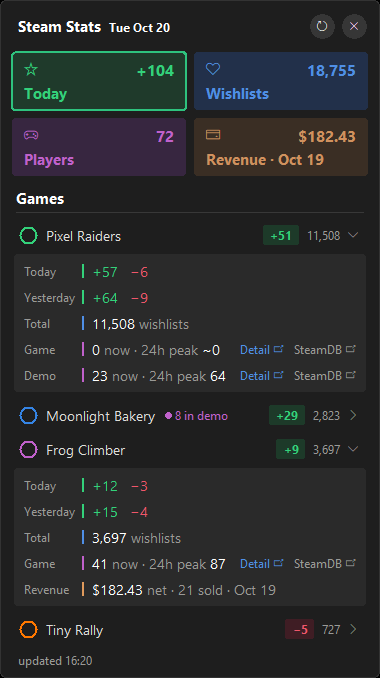
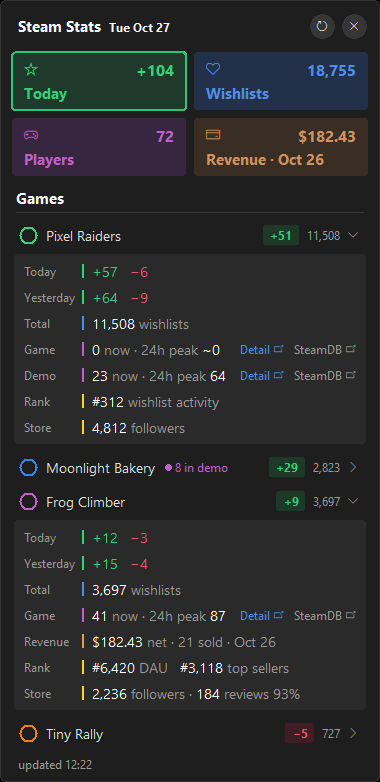
Ranking, followers, rating added

diff --git a/steam_widget.py b/steam_widget.py
@@ -2,6 +2,7 @@ import ctypes
 import datetime as dt
 import json
 import os
+import re
 import sys
 import threading
 import time
@@ -23,6 +24,7 @@ PLAYERS_PATH = os.path.join(DATA_DIR, "players_history.json")
 SALES_PATH = os.path.join(DATA_DIR, "sales.json")
 LOG_PATH = os.path.join(DATA_DIR, "error.log")
 APPS_PATH = os.path.join(DATA_DIR, "apps.json")
+STORE_STATS_PATH = os.path.join(DATA_DIR, "store.json")
 
 FIN_BASE = "https://partner.steam-api.com/IPartnerFinancialsService/"
 WISHLIST_URL = FIN_BASE + "GetAppWishlistReporting/v001/"
@@ -34,12 +36,23 @@ APPLIST_URL = "https://partner.steam-api.com/ISteamApps/GetPartnerAppListForWebA
 STORE_URL = "https://store.steampowered.com/api/appdetails"
 STEAMDB_URL = "https://steamdb.info/app/{appid}/charts/"
 DETAILS_URL = "https://partner.steampowered.com/app/details/{appid}/?dateStart=2000-01-01&dateEnd={date}"
+STORE_QUERY_URL = "https://api.steampowered.com/IStoreQueryService/Query/v1/"
+STORE_ITEMS_URL = "https://api.steampowered.com/IStoreBrowseService/GetItems/v1/"
+FOLLOWERS_URL = "https://steamcommunity.com/games/{appid}/memberslistxml/"
+BROWSER_UA = ("Mozilla/5.0 (Windows NT 10.0; Win64; x64) AppleWebKit/537.36 "
+              "(KHTML, like Gecko) Chrome/155.0 Safari/537.36")
 
 DISCOVER_INTERVAL_S = 24 * 3600
 RECENT_DAYS = 3
 PARALLEL_REQUESTS = 3
 SALES_KEEP_DAYS = 45
 LOG_MAX_BYTES = 512 * 1024
+RANK_SORTS = {"dau": 13, "sellers": 10, "wishlist": 20}
+RANK_PAGE = 1000
+RANK_MAX_PAGES = 10
+RANK_INTERVAL_S = 24 * 3600
+FOLLOWERS_INTERVAL_S = 24 * 3600
+FOLLOWERS_GAP_S = 10
 PLACEHOLDER_PREFIX = "YOUR_"
 
 KEY = "#010203"
@@ -57,6 +70,7 @@ RED = "#f0566a"
 BLUE = "#4f8fe6"
 PURPLE = "#c061cb"
 ORANGE = "#e09a5c"
+YELLOW = "#f6d32d"
 TILE = {
     "green": ("#1f3a2b", "#33d17a", "#2ec27e"),
     "blue": ("#22304a", "#4f8fe6", None),
@@ -98,13 +112,14 @@ def save_json(path, data):
     os.replace(tmp, path)
 
 
-def http_json(url, params, timeout=20):
-    req = urllib.request.Request(
-        f"{url}?{urllib.parse.urlencode(params)}",
-        headers={"User-Agent": "SteamDataPCWidget/1.0"},
-    )
+def http_text(url, params, timeout=20, ua="SteamDataPCWidget/1.0"):
+    req = urllib.request.Request(f"{url}?{urllib.parse.urlencode(params)}", headers={"User-Agent": ua})
     with urllib.request.urlopen(req, timeout=timeout) as r:
-        return json.loads(r.read().decode("utf-8"))
+        return r.read().decode("utf-8", "replace")
+
+
+def http_json(url, params, timeout=20):
+    return json.loads(http_text(url, params, timeout))
 
 
 def http_json_retry(url, params):
@@ -255,6 +270,93 @@ class SalesStore:
         return dt.date.fromisoformat(days[0]), sum(v["net"] for v in self.data["days"][days[0]].values())
 
 
+class StoreStats:
+    def __init__(self):
+        self.data = load_json(STORE_STATS_PATH, {"ranks_ts": 0, "apps": {}})
+
+    def _app(self, appid):
+        return self.data["apps"].setdefault(str(appid), {})
+
+    def for_app(self, appid):
+        return self.data["apps"].get(str(appid))
+
+    def refresh_reviews(self, appids):
+        inp = {"ids": [{"appid": a} for a in appids], "context": {"language": "english", "country_code": "US"},
+               "data_request": {"include_reviews": True}}
+        items = http_json(STORE_ITEMS_URL, {"input_json": json.dumps(inp)}).get("response", {}).get("store_items", [])
+        for it in items:
+            rv = (it.get("reviews") or {}).get("summary_filtered")
+            if it.get("appid") and rv:
+                self._app(it["appid"]).update(reviews=int(rv.get("review_count", 0)),
+                                              review_pct=int(rv.get("percent_positive", 0)))
+        save_json(STORE_STATS_PATH, self.data)
+
+    def refresh_followers(self, appids):
+        due = [a for a in appids if time.time() - self._app(a).get("followers_ts", 0) >= FOLLOWERS_INTERVAL_S]
+        for i, a in enumerate(due):
+            if i:
+                time.sleep(FOLLOWERS_GAP_S)
+            try:
+                xml = http_text(FOLLOWERS_URL.format(appid=a), {"xml": 1}, ua=BROWSER_UA)
+            except urllib.error.HTTPError as e:
+                log_error(f"followers {a}: {e}")
+                if e.code == 429:
+                    break
+                continue
+            except (urllib.error.URLError, OSError) as e:
+                log_error(f"followers {a}: {e}")
+                break
+            m = re.search(r"<groupDetails>.*?<memberCount>(\d+)", xml, re.S)
+            if m:
+                self._app(a).update(followers=int(m.group(1)), followers_ts=int(time.time()))
+            save_json(STORE_STATS_PATH, self.data)
+
+    def ranks_due(self):
+        return time.time() - self.data.get("ranks_ts", 0) >= RANK_INTERVAL_S
+
+    @staticmethod
+    def _query_page(sort, start):
+        inp = {"query_name": "widget", "context": {"language": "english", "country_code": "US"},
+               "query": {"start": start, "count": RANK_PAGE, "sort": sort}}
+        for wait in (5, 15, 30, 60, None):
+            try:
+                return http_json(STORE_QUERY_URL, {"input_json": json.dumps(inp)}).get("response", {}).get("ids", [])
+            except urllib.error.HTTPError as e:
+                if wait is None or (e.code != 429 and e.code < 500):
+                    raise
+            except (urllib.error.URLError, OSError):
+                if wait is None:
+                    raise
+            time.sleep(wait)
+
+    @staticmethod
+    def _scored(ids, j):
+        near = [it.get("appid") or 0 for it in ids[max(0, j - 10):j + 11]]
+        if len(near) < 8:
+            return True
+        return not (all(x < y for x, y in zip(near, near[1:])) or all(x > y for x, y in zip(near, near[1:])))
+
+    def refresh_ranks(self, appids, progress=None):
+        found = {}
+        for i, (name, sort) in enumerate(RANK_SORTS.items()):
+            ranks = found[name] = {}
+            for page in range(RANK_MAX_PAGES):
+                if progress and page % 10 == 0:
+                    progress(f"store ranks {i + 1}/{len(RANK_SORTS)}")
+                ids = self._query_page(sort, page * RANK_PAGE)
+                for j, it in enumerate(ids):
+                    a = it.get("appid")
+                    if a in appids and a not in ranks:
+                        ranks[a] = page * RANK_PAGE + j + 1 if self._scored(ids, j) else None
+                if not ids or len(ranks) == len(appids):
+                    break
+                time.sleep(1)
+        for a in appids:
+            self._app(a)["ranks"] = {name: found[name].get(a) for name in RANK_SORTS}
+        self.data["ranks_ts"] = int(time.time())
+        save_json(STORE_STATS_PATH, self.data)
+
+
 def _store_details(appid):
     try:
         v = http_json(STORE_URL, {"appids": appid}).get(str(appid), {})
@@ -372,6 +474,7 @@ class Widget:
         self._set_games(merge_games(self.discovered.get("games", []), self.manual_games))
         self.players = PlayerTracker(self.pub_key)
         self.sales = SalesStore(self.key)
+        self.store = StoreStats()
         self.wl_error = {}
         self.wl_nodata = set()
         self.player_now = {}
@@ -394,7 +497,7 @@ class Widget:
 
         self._setup_window()
         self.draw()
-        self.root.after(200, self.refresh_all)
+        self.root.after(200, self.manual_refresh)
 
     def _setup_window(self):
         r = self.root
@@ -426,7 +529,7 @@ class Widget:
 
         self.menu = tk.Menu(r, tearoff=0, bg=CARD_BG, fg=BODY, activebackground="#3584e4",
                             activeforeground=TEXT, bd=0)
-        self.menu.add_command(label="Refresh", command=self.refresh_all)
+        self.menu.add_command(label="Refresh", command=self.manual_refresh)
         self.topmost_var = tk.BooleanVar(value=self.topmost)
         self.menu.add_checkbutton(label="Always on top", variable=self.topmost_var, command=self._toggle_topmost)
         self.startup_var = tk.BooleanVar(value=os.path.exists(startup_path()))
@@ -529,7 +632,7 @@ class Widget:
         rx = cx - 32
         c.create_oval(rx - 12, y - 12, rx + 12, y + 12, fill=BTN_BG, outline="", tags="refresh")
         c.create_text(rx, y, text=IC_REFRESH, font=self.f_icon_s, fill=BLUE if self.busy else TEXT, tags="refresh")
-        self._on_click("refresh", self.refresh_all)
+        self._on_click("refresh", self.manual_refresh)
 
         y = 52
         tw = (W - 2 * P - 8) / 2
@@ -653,6 +756,7 @@ class Widget:
             if r["sale_day"] != today:
                 segs.append((f" · {fmt_day(r['sale_day'])}", DIM))
             lines.append(("Revenue", ORANGE, segs, None))
+        lines += self._store_lines(g.get("appid"))
 
         lh = 26
         top = y + 2
@@ -671,6 +775,31 @@ class Widget:
                 self._draw_links(link, my, today)
             ly += lh
         return bottom + 6
+
+    def _store_lines(self, appid):
+        st = self.store.for_app(appid) if appid else None
+        if not st:
+            return []
+        lines = []
+        ranks = st.get("ranks") or {}
+        segs = []
+        for name, label in (("dau", " DAU"), ("sellers", " top sellers")):
+            if ranks.get(name):
+                segs += [("   " if segs else "", DIM), (f"#{fmt(ranks[name])}", TEXT), (label, DIM)]
+        if segs:
+            lines.append(("Rank", YELLOW, segs, None))
+        if ranks.get("wishlist"):
+            lines.append(("Rank" if not segs else "", YELLOW,
+                          [(f"#{fmt(ranks['wishlist'])}", TEXT), (" wishlist activity", DIM)], None))
+        segs = []
+        if st.get("followers") is not None:
+            segs += [(fmt(st["followers"]), TEXT), (" followers", DIM)]
+        if st.get("reviews"):
+            segs += [(" · " if segs else "", DIM), (fmt(st["reviews"]), TEXT),
+                     (f" reviews {st.get('review_pct', 0)}%", DIM)]
+        if segs:
+            lines.append(("Store", YELLOW, segs, None))
+        return lines
 
     def _draw_links(self, appid, my, today):
         c, W, P = self.c, self.W, self.PAD
@@ -692,18 +821,21 @@ class Widget:
         self.c.create_text(x_right - w / 2, cy, text=text, font=self.f_pill, fill=fg, tags=tag)
         return x_right - w - 6
 
-    def refresh_all(self):
+    def refresh_all(self, rediscover=False):
         if self.busy:
             return
         self.busy = True
         self.progress_text = None
         self.draw()
-        threading.Thread(target=self._worker, daemon=True).start()
+        threading.Thread(target=self._worker, args=(rediscover,), daemon=True).start()
 
-    def _discover(self):
+    def manual_refresh(self):
+        self.refresh_all(rediscover=True)
+
+    def _discover(self, force=False):
         if not self.pub_key:
             return
-        if self.games and time.time() - self.discovered.get("ts", 0) < DISCOVER_INTERVAL_S:
+        if not force and self.games and time.time() - self.discovered.get("ts", 0) < DISCOVER_INTERVAL_S:
             return
         try:
             found = discover_apps(self.pub_key, self.exclude)
@@ -724,12 +856,12 @@ class Widget:
         code = getattr(e, "code", None)
         self.steam_down = f"Steam not responding ({code})" if code else "offline"
 
-    def _worker(self):
+    def _worker(self, rediscover=False):
         self.steam_down = None
         ok = True
         redraw = lambda: self.root.after(0, self.draw)
         try:
-            self._discover()
+            self._discover(force=rediscover)
             for g in self.games:
                 for kind in ("appid", "demo_appid"):
                     a = g.get(kind)
@@ -775,11 +907,29 @@ class Widget:
                     ok = False
                     self._mark_down(e)
                     log_error(f"sales: {e if is_transient(e) else traceback.format_exc()}")
+            self._refresh_store(redraw)
             if ok:
                 self.last_update = dt.datetime.now()
         finally:
             self.busy = False
             redraw()
+
+    def _refresh_store(self, redraw):
+        appids = [g["appid"] for g in self.games if g.get("appid")]
+        if not appids:
+            return
+        try:
+            self.progress_text = "updating store data…"
+            redraw()
+            self.store.refresh_reviews(appids)
+            self.store.refresh_followers(appids)
+            if self.store.ranks_due():
+                def progress(text):
+                    self.progress_text = text
+                    redraw()
+                self.store.refresh_ranks(set(appids), progress)
+        except Exception as e:
+            log_error(f"store: {e if is_transient(e) else traceback.format_exc()}")
 
     def schedule(self):
         interval = max(1, int(self.config.get("refresh_interval_min", 60))) * 60

diff --git a/README.md b/README.md
@@ -28,11 +28,13 @@ A small always-available Windows desktop widget for Steam developers. It shows y
   - Total outstanding wishlists
   - Current players and 24h peak for the game and its demo
   - Net revenue and units sold
+  - Steam store ranks: daily active users (DAU), top sellers and wishlist activity
+  - Followers, plus review count and positive percentage
 - **Live player hint**: when a row is collapsed and someone is playing, a small purple badge shows it (`● 3 in game · 12 in demo`).
 - **One-click links** on every game and demo row:
   - **Detail** opens the app's Steamworks *Sales & Activations* details page, where the median playtime and lifetime stats live
   - **SteamDB** opens the SteamDB player chart
-- **Hourly refresh** aligned to the clock (13:00, 14:00, …), plus a manual refresh button.
+- **Hourly refresh** aligned to the clock (13:00, 14:00, …), plus a manual refresh button that also picks up newly added games and demos.
 - **Configurable day boundary**: by default the day rolls over at 10:00 local time in Türkiye, which is midnight Pacific in summer, matching Steam's own reporting day.
 - **Resilient**: when Steam is down or you are offline, the last known numbers stay on screen with a small warning.
 - **Lightweight**: a single Python file that uses only the standard library (tkinter). No pip installs.
@@ -187,7 +189,7 @@ Restart the widget after editing `config.json`.
 | Click a game row | Expand or collapse its details. The state is remembered. |
 | **Detail** link | Opens `partner.steampowered.com/app/details/<appid>/` for that game or demo, covering all time up to today. |
 | **SteamDB** link | Opens the SteamDB charts page for that app. |
-| ⟳ button | Refresh now. |
+| ⟳ button | Refresh now. This also re-checks your Steamworks account for new games and demos. |
 | ✕ button | Close the widget. |
 | Right-click | Menu: Refresh, Always on top, Start with Windows, Open settings, Close. |
 
@@ -199,6 +201,8 @@ Restart the widget after editing `config.json`.
 | **Wishlists** tile | Total outstanding wishlists, summed over all games. |
 | **Players** tile | Players online right now in all games and demos. |
 | **Revenue** tile | Net revenue (USD) for today, or for the latest day Steam has published, with that day shown in the label. |
+| **Rank** row | The game's position in Steam's store lists: `DAU` (most played), `top sellers` and `wishlist activity`. A rank only appears if the game is within the top 10,000 of that list. |
+| **Store** row | Followers (members of the game's Steam community group), review count and positive review percentage. |
 | Green or red pill on a row | Today's net wishlist change (adds minus deletes). |
 | Grey number on a row | Total outstanding wishlists for that game. |
 | `~` before a peak | The widget has not yet collected 24 hours of player samples, so the peak may be incomplete. |
@@ -214,7 +218,10 @@ Restart the widget after editing `config.json`.
 | Revenue | `IPartnerFinancialsService/GetChangedDatesForPartner` + `GetDetailedSales` | Net sales in USD and net units, grouped by primary App ID. Steam publishes sales with a **1–2 day delay**, so "today" is often not available yet and the latest day is shown instead. The last 45 days are kept. |
 | Current players | [`ISteamUserStats/GetNumberOfCurrentPlayers`](https://partner.steamgames.com/doc/webapi/ISteamUserStats) (public) | The same number SteamDB shows. For unreleased apps the public endpoint returns 404, so the partner endpoint is used with your publisher key. That endpoint can include developer and test accounts. |
 | 24h peak | Collected locally | Steam has no API for historical player counts, so the widget stores one sample per refresh and shows the highest value of the last 24 hours. With hourly refreshes, short spikes between samples can be missed, so the value may be lower than SteamDB's. |
-| Game list | `ISteamApps/GetPartnerAppListForWebAPIKey` + store `appdetails` | Refreshed once a day. Demos are matched to their game through the store's `fullgame` field, or by name ("X Demo" → "X"). |
+| Game list | `ISteamApps/GetPartnerAppListForWebAPIKey` + store `appdetails` | Refreshed once a day and on every manual refresh. Demos are matched to their game through the store's `fullgame` field, or by name ("X Demo" → "X"). |
+| Store ranks | `IStoreQueryService/Query` (public) | The same store lists SteamDB uses for its store data ranks. Sort `13` is most played (DAU), `10` is top sellers and `20` is wishlist activity. The widget pages through the top 10,000 of each list once a day. Games without a store score, for example unreleased games with no sales, are left out of the sellers and DAU ranks. |
+| Reviews | `IStoreBrowseService/GetItems` (public) | Review count and positive percentage. One request per refresh for all games. |
+| Followers | `steamcommunity.com/games/<appid>/memberslistxml` (public) | The member count of the game's community group, the same number SteamDB shows as followers. The community site rate-limits heavily, so followers are refreshed at most once a day, with a 10-second gap between games. On a `429` the widget stops and retries the remaining games at the next refresh. |
 
 Median playtime has **no Web API**. It is only available on the Steamworks site, which the **Detail** link opens.
 
@@ -232,6 +239,7 @@ Everything is cached in the `data/` folder:
 | `sales.json` | Per-day revenue totals for the last 45 days. |
 | `apps.json` | Discovered games and demos. |
 | `players_history.json` | Player samples for the 24h peak. |
+| `store.json` | Store ranks, followers and reviews. |
 | `window.json` | Window position and expanded rows. |
 | `error.log` | Errors, capped at about 512 KB. |
 
@@ -256,6 +264,8 @@ Player history is collected per PC, so the 24h peak starts fresh there. If your 
 | `no apps are linked to this publisher key` | The key is from a group without apps, such as the Financial group. Use your main publisher group's key. |
 | A game shows no wishlist row | Steam returns no wishlist data for that app, for example when the store page is not public yet. |
 | A game shows no players | The app is not released and no publisher key is set. |
+| No **Rank** row | The game is not in the top 10,000 of any of the three store lists, or has no store page yet. |
+| Followers not updating | The Steam community site returned `429 Too Many Requests`. The last known value stays visible and the widget retries at the next refresh. |
 | `Steam not responding (502)` or `offline` | A temporary Steam or network problem. The cached numbers stay visible and the next refresh retries. |
 | Widget is off-screen | Delete `data/window.json` and restart the widget. |
 | Widget does not start with Windows | Run `install.bat` again from the folder's current location. |
@@ -273,7 +283,7 @@ Player history is collected per PC, so the 24h peak starts fresh there. If your 
 ## Security notes
 
 - `config.json` contains your API keys. It is listed in `.gitignore`. **Never commit it or share it publicly.** The Financial key can read all sales data for your partner account.
-- Only Steam's official endpoints are called (`partner.steam-api.com`, `api.steampowered.com`, `store.steampowered.com`). Your keys are never sent anywhere else.
+- Only Steam's official endpoints are called (`partner.steam-api.com`, `api.steampowered.com`, `store.steampowered.com`, `steamcommunity.com`). Your keys are only sent to `partner.steam-api.com`. The store and community requests are public and carry no key.
 - Consider restricting both keys to your IP addresses in Steamworks.
 
 ---
